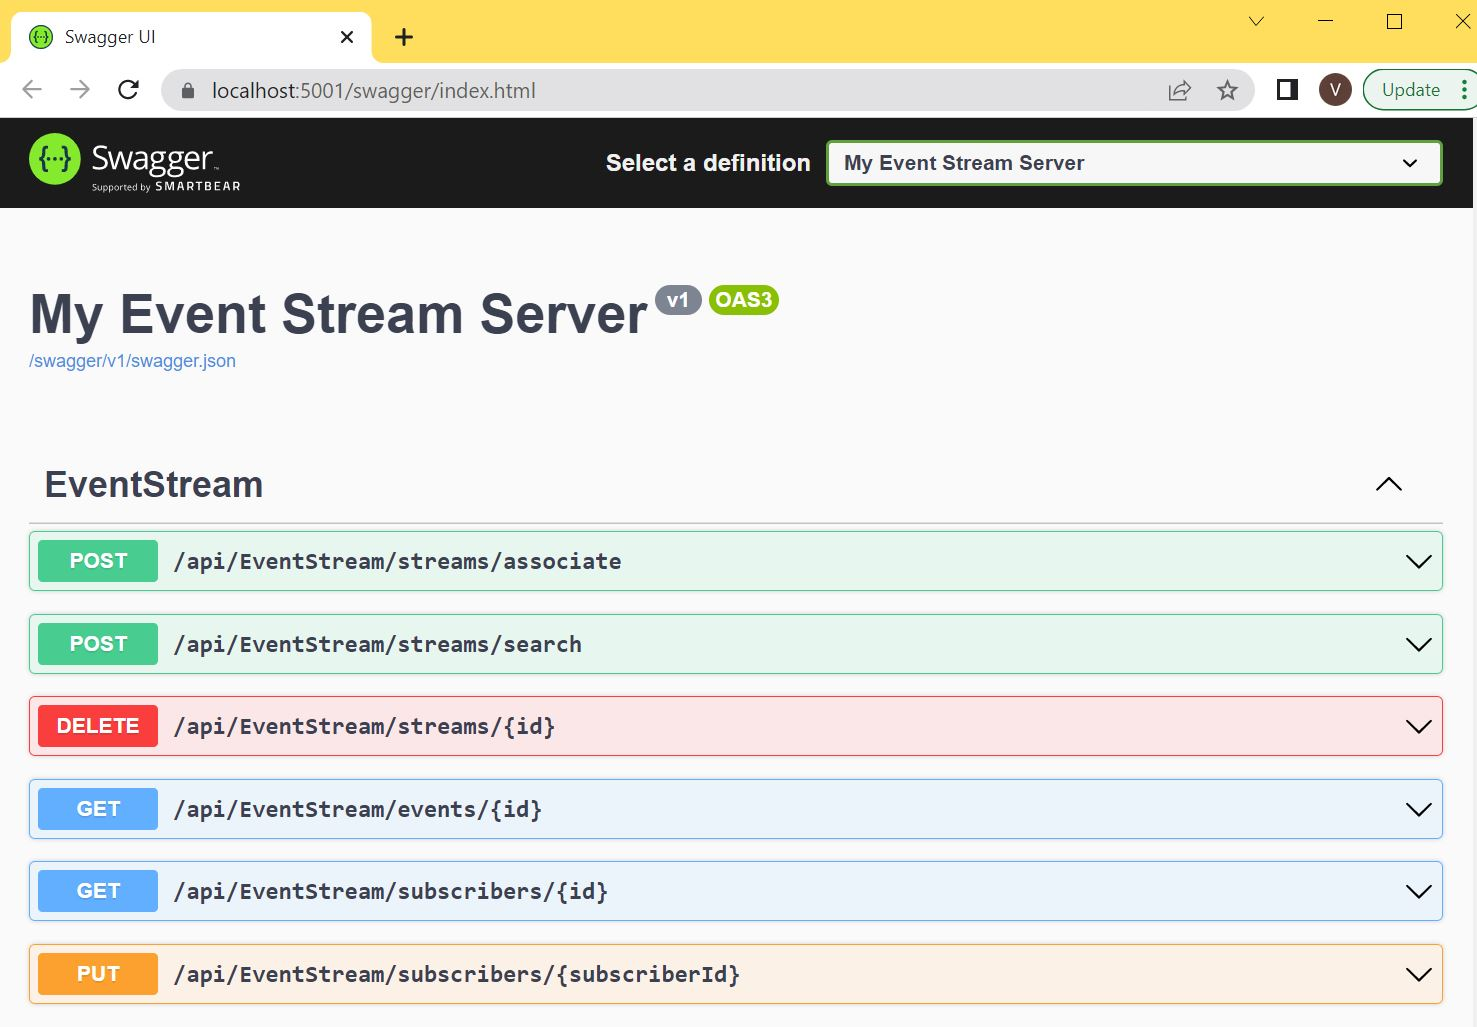
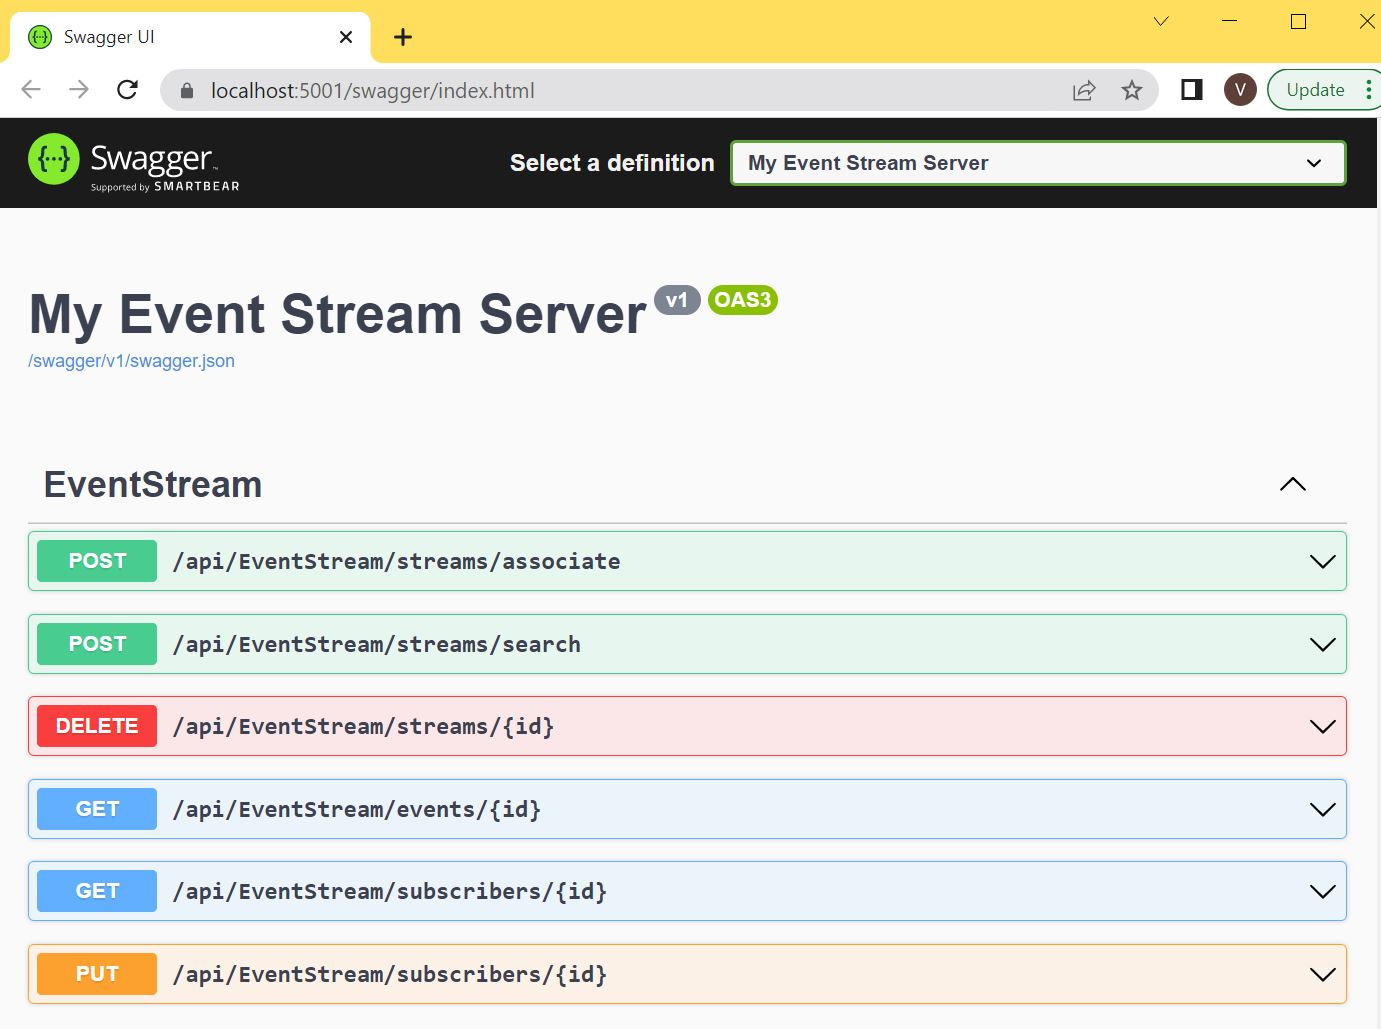
added logging to subscription & event stream processors. minor refactoring.

diff --git a/AspNetCore.SignalR.EventStream/Processors/SubscriptionProcessor.cs b/AspNetCore.SignalR.EventStream/Processors/SubscriptionProcessor.cs
@@ -9,16 +9,18 @@ namespace AspNetCore.SignalR.EventStream.Processors
         private readonly IRepository _repository;
         private static Thread _processorThread = null;
         HubConnection _hubConnection = null;
+        private readonly ILogger<EventStreamLog>? _logger;
 
         public bool Start { get; set; } = false;
         public string? EventStreamHubUrl { get; set; }
         public string? SecretKey { get; set;}
 
-        public SubscriptionProcessor(IRepository repository, string eventStreamHubUrl, string secretKey)
+        public SubscriptionProcessor(IRepository repository, string eventStreamHubUrl, string secretKey, ILogger<EventStreamLog>? logger = null)
         {
             _repository = repository;
             this.EventStreamHubUrl = eventStreamHubUrl;
             SecretKey = secretKey;
+            _logger = logger;
         }
 
         public void Process()
@@ -28,9 +30,12 @@ namespace AspNetCore.SignalR.EventStream.Processors
                 Thread.CurrentThread.IsBackground = true;
 
                 /* run your code here */
+                _logger?.LogInformation("Starting SubscriptionProcessor process.");
+
                 await this.ProcessAsync();
             });
 
+            _logger?.LogInformation("Starting SubscriptionProcessor thread.");
             _processorThread.Start();
         }
 
@@ -44,6 +49,8 @@ namespace AspNetCore.SignalR.EventStream.Processors
                     {
                         try
                         {
+                            _logger?.LogInformation($"Starting event stream hub connection. Hub url: {this.EventStreamHubUrl}.");
+
                             _hubConnection = new HubConnectionBuilder()
                             .WithUrl(this.EventStreamHubUrl)
                             .WithAutomaticReconnect()
@@ -51,10 +58,13 @@ namespace AspNetCore.SignalR.EventStream.Processors
                             .Build();
 
                             await _hubConnection.StartAsync();
+
+                            _logger?.LogInformation($"Finished starting event stream hub connection. Hub url: {this.EventStreamHubUrl}.");
                         }
                         catch (Exception ex)
                         {
-                            //TODO: Log exception
+                            _logger?.LogError(ex, $"Error starting event stream hub connection. Hub url: {this.EventStreamHubUrl}.");
+                            continue;
                         }
                     }
 
@@ -74,7 +84,7 @@ namespace AspNetCore.SignalR.EventStream.Processors
                                 {
                                     if (subsciptionWithEvents.Stream.Events != null && subsciptionWithEvents.Stream.Events.Any())
                                     {
-                                        //TODO:Update subscriber Last Accessed                                    
+                                        _logger?.LogInformation($"Streaming events ({subsciptionWithEvents.Stream.Events.Count()}) to subscriber {subscriber.SubscriberId}.");
 
                                         var eventSubscriberModel = new EventStreamSubscriberModelResult
                                         {
@@ -108,13 +118,15 @@ namespace AspNetCore.SignalR.EventStream.Processors
 
                                         await _hubConnection.InvokeAsync("EventStreamEventAppeared", eventSubscriberModel, SecretKey);
 
+                                        _logger?.LogInformation($"Finished streaming events ({subsciptionWithEvents.Stream.Events.Count()}) to subscriber {subscriber.SubscriberId}.");
+
                                         await _repository.UpdateSubscriptionLastAccessedAsync(subsciptionWithEvents.SubscriberId, DateTimeOffset.UtcNow);                                        
                                     }
                                 }
                             }
                             catch (Exception ex)
                             {
-                                //TODO: Log exception
+                                _logger?.LogError(ex, "Error in SubscriptionProcessor thread.");
                                 continue;
                             }
                         }
@@ -122,7 +134,8 @@ namespace AspNetCore.SignalR.EventStream.Processors
                 }
                 catch (Exception ex)
                 {
-                    //TODO: Logging
+                    _logger?.LogError(ex, "Error in SubscriptionProcessor thread.");
+                    continue;
                 }
             }
         }
@@ -133,24 +146,29 @@ namespace AspNetCore.SignalR.EventStream.Processors
 
             try
             {
+                _logger?.LogInformation($"Stopping event stream hub connection. Hub url: {this.EventStreamHubUrl}.");
+
                 if (_hubConnection != null)
                 {
                     await _hubConnection.StopAsync();
                     await _hubConnection.DisposeAsync();
                 }
+                _logger?.LogInformation($"Finished stopping event stream hub connection. Hub url: {this.EventStreamHubUrl}.");
             }
-            catch (Exception)
+            catch (Exception ex)
             {
-                //TODO: Logging
+                _logger?.LogError(ex, $"Error stopping event stream hub connection. Hub url: {this.EventStreamHubUrl}.");
             }
 
             try
             {
+                _logger?.LogInformation("Stopping thread.");
                 _processorThread.Abort();
+                _logger?.LogInformation("Finished stopping thread.");
             }
-            catch (Exception)
+            catch (Exception ex)
             {
-                //TODO: Logging
+                _logger?.LogError(ex, "Error stopping thread.");
             }
         }
     }

diff --git a/AspNetCore.SignalR.EventStream/Processors/EventStreamProcessor.cs b/AspNetCore.SignalR.EventStream/Processors/EventStreamProcessor.cs
@@ -5,13 +5,16 @@ namespace AspNetCore.SignalR.EventStream.Processors
     public class EventStreamProcessor : IAsyncDisposable
     {
         private readonly IRepository _repository;
-        private static Thread _processorThread = null;
+        private readonly ILogger<EventStreamLog>? _logger;
+
+        private static Thread _processorThread = null;        
 
         public bool Start { get; set; } = false;
 
-        public EventStreamProcessor(IRepository repository)
+        public EventStreamProcessor(IRepository repository, ILogger<EventStreamLog>? logger = null)
         {
             _repository = repository;
+            _logger = logger;
         }
 
         public void Process()
@@ -21,9 +24,11 @@ namespace AspNetCore.SignalR.EventStream.Processors
                 Thread.CurrentThread.IsBackground = true;
 
                 /* run your code here */
+                _logger?.LogInformation("Starting EventStreamProcessor process.");
                 await this.ProcessAsync();
             });
 
+            _logger?.LogInformation("Starting EventStreamProcessor thread.");
             _processorThread.Start();
         }
 
@@ -44,18 +49,20 @@ namespace AspNetCore.SignalR.EventStream.Processors
                             if (stream != null)
                             {
                                 //Get last merged datetime from stream
-                                var lastMergedAt = stream.LastAssociatedAt;
+                                var lastAssociatedAt = stream.LastAssociatedAt;
 
                                 if (activeMerge.AssociatedStreamIds != null && activeMerge.AssociatedStreamIds.Any())
                                 {
                                     foreach (var associatedStreamId in activeMerge.AssociatedStreamIds)
                                     {
                                         //Fetch events from associated stream after last merged at
-                                        var associatedStream = await _repository.GetStreamAsync(associatedStreamId, lastMergedAt);
+                                        var associatedStream = await _repository.GetStreamAsync(associatedStreamId, lastAssociatedAt);
 
                                         if (associatedStream != null && associatedStream.Events != null && associatedStream.Events.Any())
                                         {
                                             var events = new List<Entities.Event>();
+
+                                            _logger?.LogInformation($"Adding new events ({associatedStream.Events.Count()}) from associated stream {associatedStream.Name} to stream {stream.Name}.");
 
                                             foreach (var @event in associatedStream.Events)
                                             {
@@ -73,12 +80,14 @@ namespace AspNetCore.SignalR.EventStream.Processors
                                                  events.Add(@newEvent);                                                
                                             }
 
-                                            //Create new Event
+                                            //Create new Events
                                             await _repository.AddAsync(events.ToArray());
 
-                                            lastMergedAt = DateTime.UtcNow;
+                                            _logger?.LogInformation($"Finished adding new events ({associatedStream.Events.Count()}) from associated stream {associatedStream.Name} to stream {stream.Name}.");
 
-                                            stream.LastAssociatedAt = lastMergedAt;
+                                            lastAssociatedAt = DateTime.UtcNow;
+
+                                            stream.LastAssociatedAt = lastAssociatedAt;
                                             await _repository.UpdateAsync(stream);
                                         }                                        
                                     }
@@ -87,14 +96,15 @@ namespace AspNetCore.SignalR.EventStream.Processors
                         }
                         catch (Exception ex)
                         {
-                            //TODO: Log exception
+                            _logger?.LogError(ex, "Error in EventStreamProcessor thread.");
                             continue;
                         }
                     }
                 }
                 catch (Exception ex)
                 {
-
+                    _logger?.LogError(ex, "Error in EventStreamProcessor thread.");
+                    continue;
                 }                
             }
         }
@@ -104,12 +114,14 @@ namespace AspNetCore.SignalR.EventStream.Processors
             Start = false;
 
             try
-            {                
-                _processorThread.Abort();
-            }
-            catch (Exception)
             {
-                //TODO: Logging
+                _logger?.LogInformation("Stopping thread.");
+                _processorThread.Abort();
+                _logger?.LogInformation("Finished stopping thread.");
+            }
+            catch (Exception ex)
+            {
+                _logger?.LogError(ex, "Error stopping thread.");
             }
 
             await Task.CompletedTask;

diff --git a/AspNetCore.SignalR.EventStream/Controllers/EventStreamController.cs b/AspNetCore.SignalR.EventStream/Controllers/EventStreamController.cs
@@ -78,14 +78,14 @@ namespace AspNetCore.SignalR.EventStream.Controllers
             return Ok(subscriber);  
         }
 
-        [HttpPut("subscribers/{subscriberId:Guid}")]
-        public async Task<IActionResult> UpdateSubscriber(Guid subscriberId, [FromBody] UpdateSubscriberModel model)
+        [HttpPut("subscribers/{id}")]
+        public async Task<IActionResult> UpdateSubscriber(Guid id, [FromBody] UpdateSubscriberModel model)
         {
-            _logger?.LogInformation($"Updating subscriber {subscriberId}");
+            _logger?.LogInformation($"Updating subscriber {id}");
 
-            await _streamsService.UpdateSubscriberAsync(subscriberId, model);
+            await _streamsService.UpdateSubscriberAsync(id, model);
 
-            _logger?.LogInformation($"Finished updating subscriber {subscriberId}");
+            _logger?.LogInformation($"Finished updating subscriber {id}");
 
             return Ok();
         }
